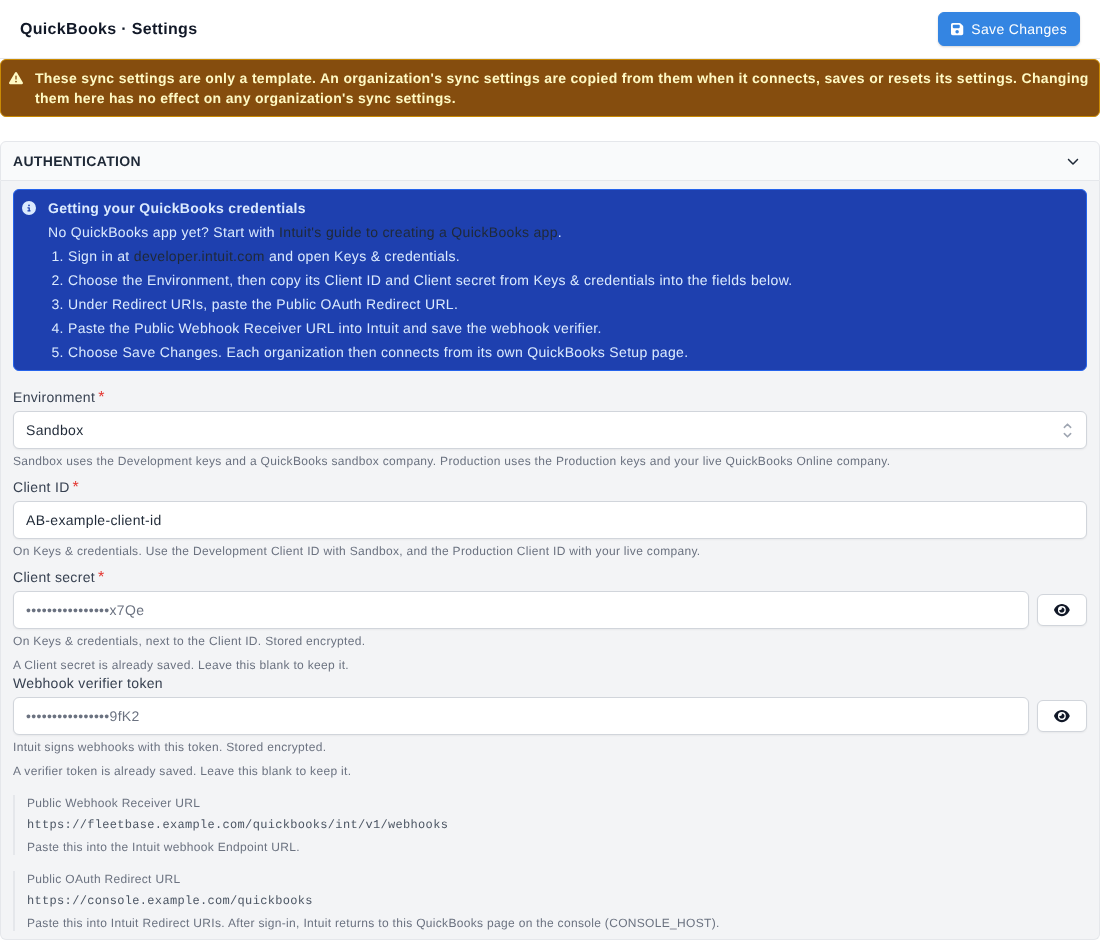
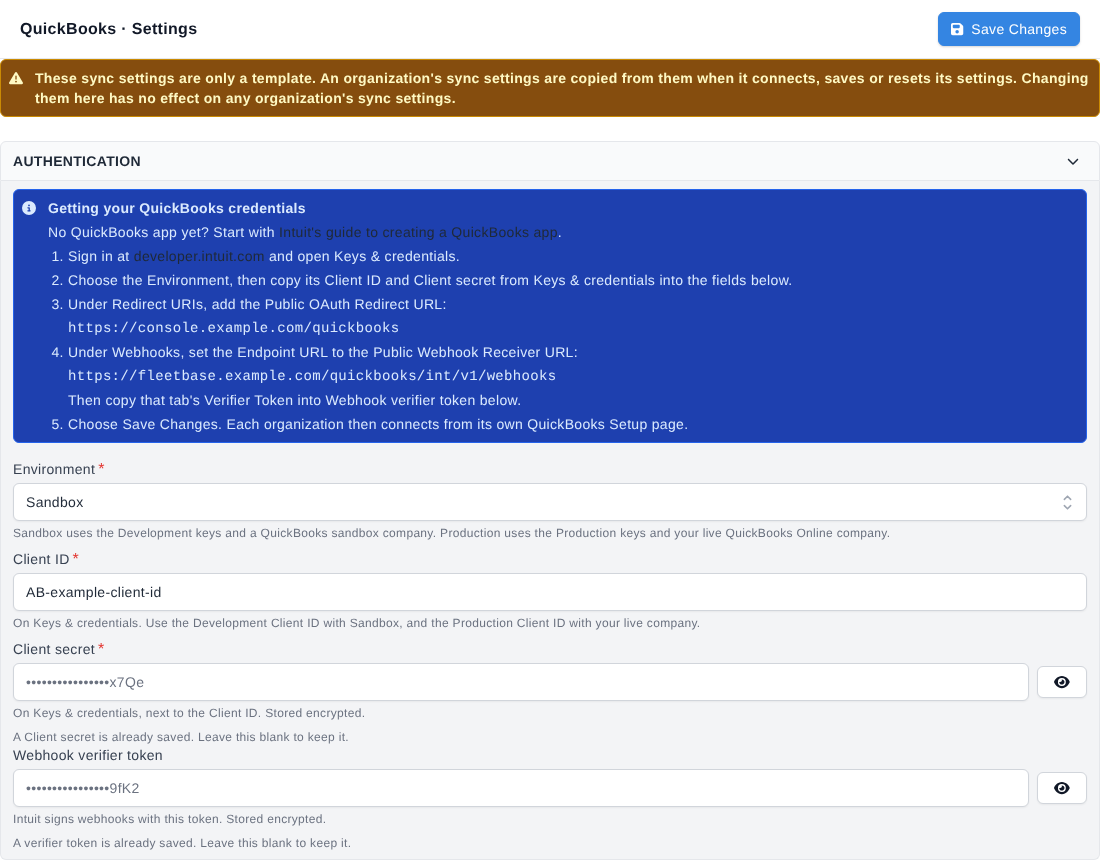
Show each QuickBooks URL once, inside the Intuit step that uses it
The Public OAuth Redirect URL and Public Webhook Receiver URL were shown
in their own labelled rows below the credentials, each with a hint that
repeated what the setup steps above already said. Each URL now appears
once, as plain text inside the step that says where it goes in Intuit.
The separate rows, their labels and hints, and those translations are
removed. A missing URL leaves no empty line, and the not-public warning
has an icon.

Claude-Session: https://claude.ai/code/session_01LNF8JukmPUdNBs9KeWL6Ay

diff --git a/tests/integration/components/quickbooks-settings-test.js b/tests/integration/components/quickbooks-settings-test.js
@@ -31,15 +31,13 @@ class CurrentUserStubService extends Service {
     companyId = 'company-uuid';
 }
 
-const URL_COPY = {
-    public_webhook_receiver_url: {
-        label: 'Public Webhook Receiver URL',
-        hint: 'Paste this into the Intuit webhook Endpoint URL.',
-    },
-    public_oauth_redirect_url: {
-        label: 'Public OAuth Redirect URL',
-        hint: 'Paste this into Intuit Redirect URIs. After sign-in, Intuit returns to this QuickBooks page on the console (CONSOLE_HOST).',
-    },
+// Each URL is shown once, inside the guidance step that says where it goes in Intuit.
+const REDIRECT_STEP = 'Under Redirect URIs, add the Public OAuth Redirect URL:';
+const WEBHOOK_STEP = 'Under Webhooks, set the Endpoint URL to the Public Webhook Receiver URL:';
+const VERIFIER_STEP = "Then copy that tab's Verifier Token into Webhook verifier token below.";
+const URL_STEP = {
+    public_webhook_receiver_url: { step: '[data-test-webhook-step]', text: WEBHOOK_STEP, label: 'Public Webhook Receiver URL' },
+    public_oauth_redirect_url: { step: '[data-test-redirect-step]', text: REDIRECT_STEP, label: 'Public OAuth Redirect URL' },
 };
 
 function saveButton() {
@@ -54,13 +52,19 @@ function bodyTextOutsideScripts() {
 }
 
 function assertSelectableUrl(assert, key, value) {
-    const copy = URL_COPY[key];
-    const field = `[data-test-sync-field="${key}"]`;
-    assert.dom(`${field} [data-test-url-label]`).hasText(copy.label);
-    assert.dom(`${field} label`).doesNotExist();
-    assert.dom(`${field} .input-group`).doesNotExist();
-    assert.dom(`${field} input`).doesNotExist();
-    assert.dom(`${field} textarea`).doesNotExist();
+    const copy = URL_STEP[key];
+    // The URL sits in its step, with no separate labelled row or hint repeating where to paste it.
+    assert.dom(`${copy.step} [data-test-field="${key}"]`).exists();
+    assert.dom(`${copy.step}`).includesText(copy.text);
+    assert.dom(`[data-test-sync-field="${key}"]`).doesNotExist();
+    assert.dom(`[data-test-field-help="${key}"]`).doesNotExist();
+    assert.dom('[data-test-url-label]').doesNotExist();
+    assert.dom(`${copy.step} label`).doesNotExist();
+    assert.dom(`${copy.step} .input-group`).doesNotExist();
+    assert.dom(`${copy.step} input`).doesNotExist();
+    assert.dom(`${copy.step} textarea`).doesNotExist();
+    assert.strictEqual(bodyTextOutsideScripts().split(copy.label).length - 1, 1, `${copy.label} is named once`);
+    assert.dom().doesNotIncludeText('Paste this into');
     assert.dom(`[data-test-field="${key}"]`).hasTagName('div');
     assert.dom(`[data-test-field="${key}"]`).hasClass('select-text');
     assert.dom(`[data-test-field="${key}"]`).doesNotHaveClass('form-input');
@@ -70,7 +74,6 @@ function assertSelectableUrl(assert, key, value) {
     assert.dom(`[data-test-field="${key}"]`).hasText(value);
     assert.dom(`[data-test-field="${key}"]`).doesNotHaveAttribute('readonly');
     assert.dom(`[data-test-field="${key}"]`).doesNotHaveAttribute('disabled');
-    assert.dom(`[data-test-field-help="${key}"]`).hasText(copy.hint);
 }
 
 function assertFieldError(assert, controlSelector, errorKey) {
@@ -200,8 +203,8 @@ module('Integration | Component | quickbooks-settings', function (hooks) {
         assert
             .dom('[data-test-credentials-guidance] li:nth-child(2)')
             .hasText('Choose the Environment, then copy its Client ID and Client secret from Keys & credentials into the fields below.');
-        assert.dom('[data-test-redirect-step]').hasText('Under Redirect URIs, paste the Public OAuth Redirect URL.');
-        assert.dom('[data-test-webhook-step]').hasText('Paste the Public Webhook Receiver URL into Intuit and save the webhook verifier.');
+        assert.dom('[data-test-redirect-step]').hasText(`${REDIRECT_STEP} https://console.example/quickbooks`);
+        assert.dom('[data-test-webhook-step]').hasText(`${WEBHOOK_STEP} http://internal.example/quickbooks/int/v1/webhooks ${VERIFIER_STEP}`);
         assert.dom('[data-test-redirect-step]').doesNotIncludeText('{{fleetbase.url}}');
         assert.dom('[data-test-redirect-step]').doesNotIncludeText('{{');
         assert.dom("[data-test-field-help='environment']").hasClass('text-xs');
@@ -387,7 +390,7 @@ module('Integration | Component | quickbooks-settings', function (hooks) {
         assert.dom('[data-test-credentials-guidance]').hasClass('ui-input-info-block');
         assert.dom('[data-test-credentials-guidance]').includesText('Getting your QuickBooks credentials');
         assert.dom('[data-test-credential-save-step]').hasText('Choose Save Changes. Each organization then connects from its own QuickBooks Setup page.');
-        assert.dom('[data-test-redirect-step]').hasText('Under Redirect URIs, paste the Public OAuth Redirect URL.');
+        assert.dom('[data-test-redirect-step]').includesText(REDIRECT_STEP);
         assert.dom('[data-test-redirect-step]').doesNotIncludeText('{{fleetbase.url}}');
         assert.dom("[data-test-field-help='environment']").hasClass('text-xs');
         assert.dom("[data-test-field-help='environment']").hasClass('text-gray-500');
@@ -398,7 +401,7 @@ module('Integration | Component | quickbooks-settings', function (hooks) {
         assert.dom(this.element.querySelector("[data-test-field='client_secret']").closest('.input-group').querySelector('label')).hasClass('required');
         assert.dom("[data-test-field-help='webhook_verifier']").includesText('Intuit signs webhooks with this token. Stored encrypted.');
         assert.dom("[data-test-field-help='webhook_verifier']").doesNotIncludeText('Leave blank');
-        assert.dom('[data-test-webhook-step]').hasText('Paste the Public Webhook Receiver URL into Intuit and save the webhook verifier.');
+        assert.dom('[data-test-webhook-step]').includesText(WEBHOOK_STEP);
 
         await click(saveButton());
         assert.dom("[data-test-error='client_id']").exists();
@@ -427,7 +430,7 @@ module('Integration | Component | quickbooks-settings', function (hooks) {
 
         await render(hbs`<QuickbooksSettings @settings={{this.settings}} @sync={{this.sync}} />`);
 
-        const order = [...this.element.querySelectorAll('[data-test-field]')].map((element) => element.dataset.testField);
+        const order = [...this.element.querySelectorAll('[data-test-field]')].map((element) => element.dataset.testField).filter((key) => !key.startsWith('public_'));
         assert.deepEqual(order.slice(0, 4), ['environment', 'client_id', 'client_secret', 'webhook_verifier']);
     });
 
@@ -448,6 +451,8 @@ module('Integration | Component | quickbooks-settings', function (hooks) {
         assert
             .dom("[data-test-url-not-public='public_oauth_redirect_url']")
             .hasText("This is not a public https:// address, so Intuit cannot send you back to it. Set CONSOLE_HOST on the Fleetbase API to the console's public https:// address.");
+        assert.dom("[data-test-redirect-step] [data-test-url-not-public='public_oauth_redirect_url']").exists();
+        assert.dom("[data-test-url-not-public='public_oauth_redirect_url'] svg").exists('the warning has an icon');
         assert.dom("[data-test-url-not-public='public_webhook_receiver_url']").doesNotExist();
         assert.dom('input[data-test-field="public_oauth_redirect_url"]').doesNotExist();
 
@@ -936,8 +941,9 @@ module('Integration | Component | quickbooks-settings', function (hooks) {
 
         assert.dom("[data-test-field='environment']").hasValue('production');
         assert.dom("[data-test-sync='batch_size']").doesNotExist();
-        assertSelectableUrl(assert, 'public_webhook_receiver_url', '');
-        assertSelectableUrl(assert, 'public_oauth_redirect_url', '');
+        // No URL yet: the step does not end in an empty line.
+        assert.dom('[data-test-field="public_webhook_receiver_url"]').doesNotExist();
+        assert.dom('[data-test-field="public_oauth_redirect_url"]').doesNotExist();
         await click(saveButton());
         assert.strictEqual(this.saved.auth.environment, 'production');
         assertUrlsStayOutOfPayload(assert, this.saved);

diff --git a/addon/components/quickbooks-settings.js b/addon/components/quickbooks-settings.js
@@ -88,19 +88,20 @@ function errorFieldSelector(key) {
 }
 
 // The server computes both addresses: the webhook receiver from the API address (APP_URL), the OAuth redirect from
-// the console's QuickBooks page (CONSOLE_HOST). They are shown as text to copy into Intuit, never edited here.
-const DISPLAY_URLS = [
-    {
-        key: 'public_webhook_receiver_url',
-        readyKey: 'public_webhook_receiver_ready',
-        notPublicKey: 'quickbooks.settings.urls.not-public-webhook',
-    },
-    {
+// the console's QuickBooks page (CONSOLE_HOST). Each is shown once, as text inside the guidance step that says where
+// it goes in Intuit, and is never edited here.
+const DISPLAY_URLS = {
+    redirect: {
         key: 'public_oauth_redirect_url',
         readyKey: 'public_oauth_redirect_ready',
         notPublicKey: 'quickbooks.settings.urls.not-public-oauth',
     },
-];
+    webhook: {
+        key: 'public_webhook_receiver_url',
+        readyKey: 'public_webhook_receiver_ready',
+        notPublicKey: 'quickbooks.settings.urls.not-public-webhook',
+    },
+};
 
 // The screen has one Primary. A blank one is the default, QuickBooks. Any other value than quickbooks is Fleetbase,
 // including a stored conflict of report.
@@ -141,11 +142,6 @@ const HINT_KEYS = {
     periodic_interval_hours: 'quickbooks.settings.hints.periodic-interval-hours',
     retry_limit: 'quickbooks.settings.hints.retry-limit',
     default_backoff_seconds: 'quickbooks.settings.hints.retry-delay',
-};
-
-const URL_COPY = {
-    public_webhook_receiver_url: ['quickbooks.settings.urls.public-webhook', 'quickbooks.settings.urls.public-webhook-hint'],
-    public_oauth_redirect_url: ['quickbooks.settings.urls.public-oauth', 'quickbooks.settings.urls.public-oauth-hint'],
 };
 
 export default class QuickbooksSettingsComponent extends Component {
@@ -295,20 +291,24 @@ export default class QuickbooksSettingsComponent extends Component {
     }
 
     get displayedUrls() {
-        return DISPLAY_URLS.map((field) => {
-            const [labelKey, hintKey] = URL_COPY[field.key];
+        const urls = {
+            redirect: this.displayedUrl(DISPLAY_URLS.redirect),
+            webhook: this.displayedUrl(DISPLAY_URLS.webhook),
+        };
 
-            const value = this.args.settings?.[field.key];
+        return urls;
+    }
 
-            return {
-                key: field.key,
-                label: this.intl.t(labelKey),
-                hint: this.intl.t(hintKey),
-                value: typeof value === 'string' ? value : '',
-                notPublic: this.args.settings?.[field.readyKey] === false,
-                notPublicText: this.intl.t(field.notPublicKey),
-            };
-        });
+    displayedUrl(field) {
+        const value = this.args.settings?.[field.key];
+        const url = {
+            key: field.key,
+            value: typeof value === 'string' ? value : '',
+            notPublic: this.args.settings?.[field.readyKey] === false,
+            notPublicText: this.intl.t(field.notPublicKey),
+        };
+
+        return url;
     }
 
     get secret() {

diff --git a/app/components/quickbooks-settings-url.js b/app/components/quickbooks-settings-url.js
@@ -1,0 +1,1 @@
+export { default } from '@unchartedwaters/quickbooks-engine/components/quickbooks-settings-url';

diff --git a/addon/components/quickbooks-settings-url.js b/addon/components/quickbooks-settings-url.js
@@ -1,0 +1,3 @@
+import templateOnly from '@ember/component/template-only';
+
+export default templateOnly();

diff --git a/docs/SETUP.md b/docs/SETUP.md
@@ -227,8 +227,8 @@ organizations. Credentials, the webhook verifier, environment, and URLs are
 global and admin-only.
 
 ![Admin, QuickBooks, Settings: the template note, then Authentication
-with Environment, Client ID, masked secret and verifier, and the read-only
-webhook and OAuth URLs][admin-settings]
+with the setup steps showing the OAuth and webhook URLs to copy, then
+Environment, Client ID, masked secret and verifier][admin-settings]
 
 Organization settings → QuickBooks Setup uses `scope=company` (the default). It
 shows the connection controls and the organization's own sync options. An
@@ -499,8 +499,9 @@ Keys come from [developer.intuit.com](https://developer.intuit.com) → your app
 
 The OAuth redirect is the console's QuickBooks page: `CONSOLE_HOST` plus
 `/quickbooks`. The webhook path is `/quickbooks/int/v1/webhooks` on the API
-address. Admin → QuickBooks → Settings shows both as Public OAuth Redirect URL
-and Public Webhook Receiver URL, as plain text to copy, not inputs. Neither is
+address. Admin → QuickBooks → Settings shows each one once, as plain text to
+copy inside the setup step that says where it goes in Intuit (Public OAuth
+Redirect URL, then Public Webhook Receiver URL). Neither is an input or is
 stored. Paste the OAuth URL into Intuit Redirect URIs and the webhook URL into
 the Intuit Endpoint URL. When an address is not a public https address, the page
 says which setting to change under it (`CONSOLE_HOST` for the redirect,
